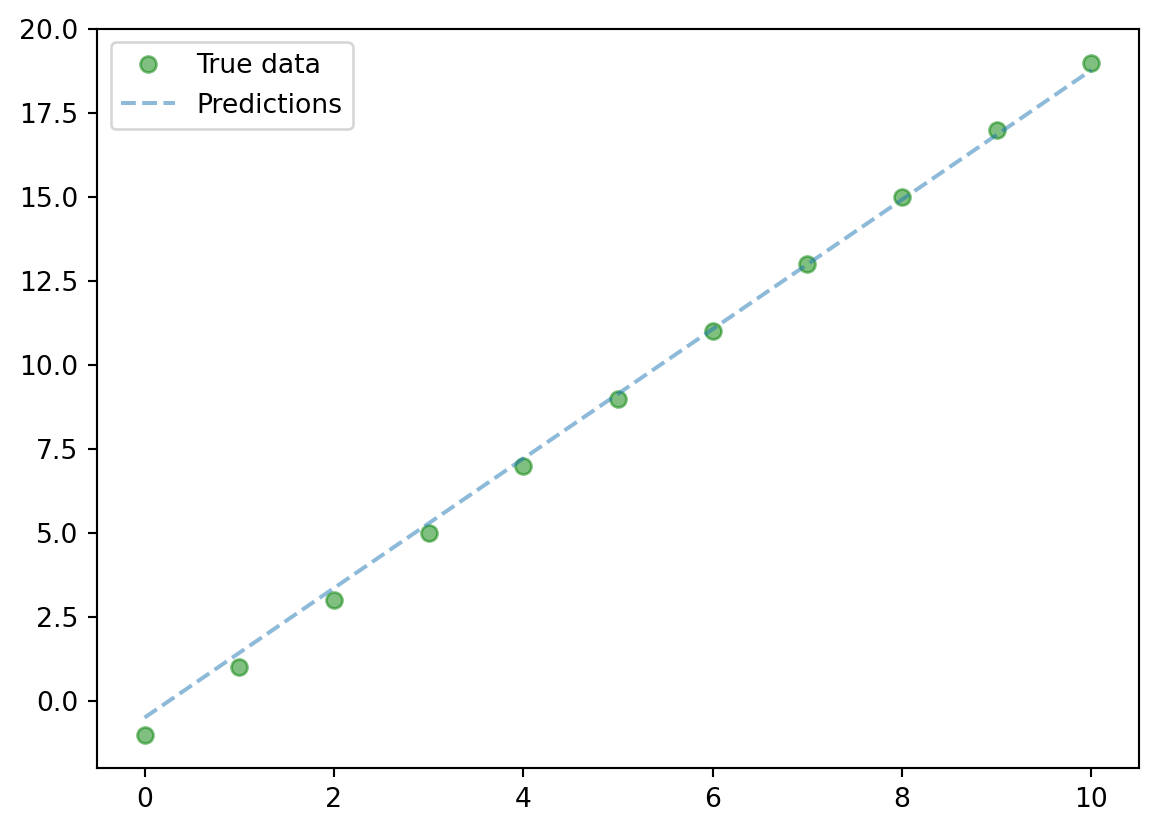
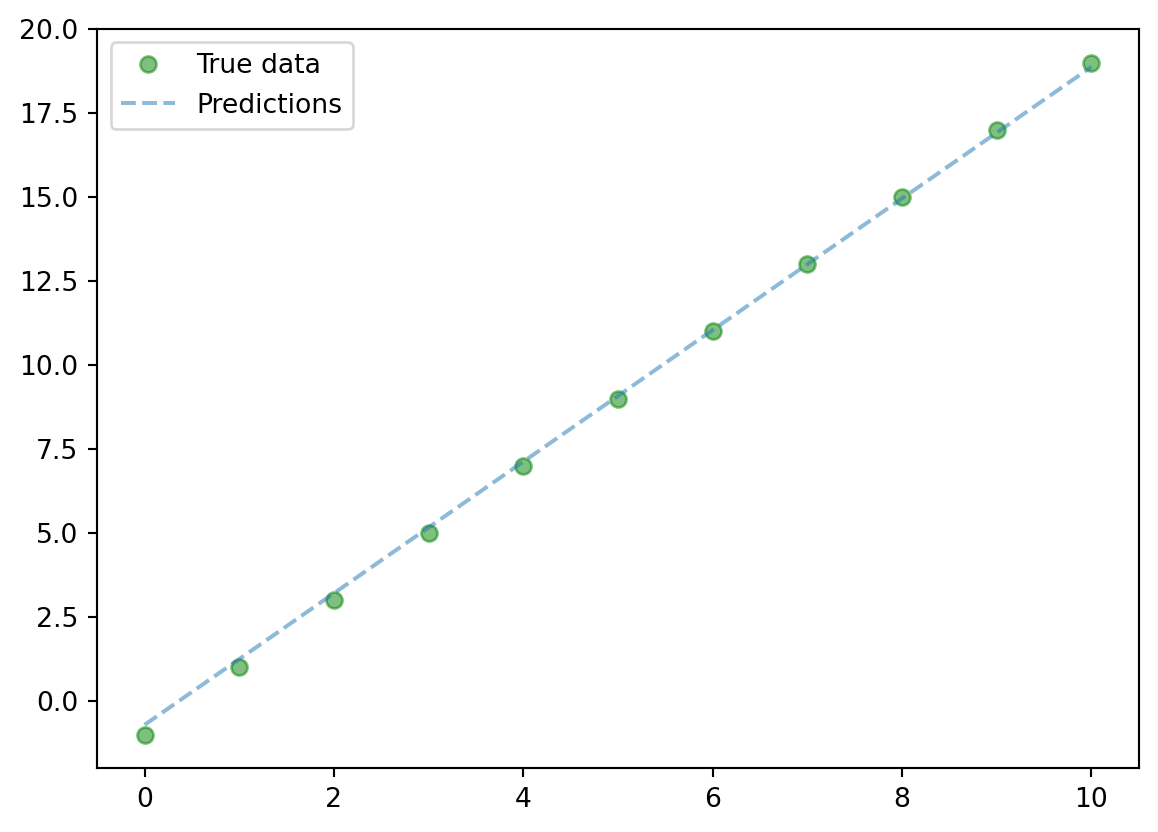
w4

diff --git a/docs/lectures/cw_w2.html b/docs/lectures/cw_w2.html
@@ -255,6 +255,12 @@ window.Quarto = {
  <span class="menu-text">Przestrzenie wektorowe, stany kwantowe, reprezentacja klasycznych i kwantowych bitów</span></a>
   </div>
 </li>
+          <li class="sidebar-item">
+  <div class="sidebar-item-container"> 
+  <a href="../lectures/wyklad4.html" class="sidebar-item-text sidebar-link">
+ <span class="menu-text">Kwantowe bramki logiczne w prostych algorytmach i obwodach kwantowych</span></a>
+  </div>
+</li>
       </ul>
   </li>
         <li class="sidebar-item sidebar-item-section">
@@ -311,7 +317,7 @@ window.Quarto = {
 </section>
 <section id="pytorch-regresja-liniowa" class="level3">
 <h3 class="anchored" data-anchor-id="pytorch-regresja-liniowa">PyTorch Regresja liniowa</h3>
-<div id="88515417" class="cell" data-execution_count="1">
+<div id="4047fcb5" class="cell" data-execution_count="1">
 <div class="sourceCode cell-code" id="cb1"><pre class="sourceCode python code-with-copy"><code class="sourceCode python"><span id="cb1-1"><a href="#cb1-1" aria-hidden="true" tabindex="-1"></a><span class="im">import</span> torch</span>
 <span id="cb1-2"><a href="#cb1-2" aria-hidden="true" tabindex="-1"></a><span class="im">import</span> numpy <span class="im">as</span> np</span>
 <span id="cb1-3"><a href="#cb1-3" aria-hidden="true" tabindex="-1"></a><span class="im">import</span> matplotlib.pyplot <span class="im">as</span> plt</span>
@@ -379,16 +385,16 @@ window.Quarto = {
 <div class="cell-output cell-output-stdout">
 <pre><code>dane: [ 0  1  2  3  4  5  6  7  8  9 10]
 target: [-1, 1, 3, 5, 7, 9, 11, 13, 15, 17, 19]
-epoch: 10, loss = 0.2017
-epoch: 20, loss = 0.1802
-epoch: 30, loss = 0.1611
-epoch: 40, loss = 0.1440
-epoch: 50, loss = 0.1287
-epoch: 60, loss = 0.1150
-epoch: 70, loss = 0.1028
-epoch: 80, loss = 0.0919
-epoch: 90, loss = 0.0821
-epoch: 100, loss = 0.0734</code></pre>
+epoch: 10, loss = 0.0658
+epoch: 20, loss = 0.0588
+epoch: 30, loss = 0.0526
+epoch: 40, loss = 0.0470
+epoch: 50, loss = 0.0420
+epoch: 60, loss = 0.0375
+epoch: 70, loss = 0.0335
+epoch: 80, loss = 0.0300
+epoch: 90, loss = 0.0268
+epoch: 100, loss = 0.0239</code></pre>
 </div>
 <div class="cell-output cell-output-display">
 <div>
@@ -401,7 +407,7 @@ epoch: 100, loss = 0.0734</code></pre>
 </section>
 <section id="pytorch-regresja-logistyczna" class="level3">
 <h3 class="anchored" data-anchor-id="pytorch-regresja-logistyczna">PyTorch Regresja logistyczna</h3>
-<div id="09a1b59b" class="cell" data-execution_count="2">
+<div id="60a1510a" class="cell" data-execution_count="2">
 <div class="sourceCode cell-code" id="cb3"><pre class="sourceCode python code-with-copy"><code class="sourceCode python"><span id="cb3-1"><a href="#cb3-1" aria-hidden="true" tabindex="-1"></a><span class="im">import</span> torch</span>
 <span id="cb3-2"><a href="#cb3-2" aria-hidden="true" tabindex="-1"></a><span class="im">import</span> numpy <span class="im">as</span> np</span>
 <span id="cb3-3"><a href="#cb3-3" aria-hidden="true" tabindex="-1"></a><span class="im">import</span> matplotlib.pyplot <span class="im">as</span> plt</span>
@@ -467,7 +473,7 @@ epoch: 100, loss = 0.0734</code></pre>
 <span id="cb3-63"><a href="#cb3-63" aria-hidden="true" tabindex="-1"></a>    <span class="bu">print</span>(<span class="ss">f'accuracy = </span><span class="sc">{</span>acc<span class="sc">:.4f}</span><span class="ss">'</span>)</span></code><button title="Copy to Clipboard" class="code-copy-button"><i class="bi"></i></button></pre></div>
 <div class="cell-output cell-output-stdout">
 <pre><code>dane: [ 0  1  2  3  4  5  6  7  8  9 10]
-target: [0, 0, 0, 0, 1, 0, 1, 0, 1, 0, 1]
+target: [0, 1, 0, 0, 1, 1, 0, 1, 0, 1, 0]
 epoch: 10, loss = -0.0000
 epoch: 20, loss = -0.0000
 epoch: 30, loss = -0.0000

diff --git a/docs/lectures/wyklad4.html b/docs/lectures/wyklad4.html
@@ -136,7 +136,7 @@ window.Quarto = {
       <button type="button" class="quarto-btn-toggle btn" data-bs-toggle="collapse" role="button" data-bs-target=".quarto-sidebar-collapse-item" aria-controls="quarto-sidebar" aria-expanded="false" aria-label="Toggle sidebar navigation" onclick="if (window.quartoToggleHeadroom) { window.quartoToggleHeadroom(); }">
         <i class="bi bi-layout-text-sidebar-reverse"></i>
       </button>
-        <nav class="quarto-page-breadcrumbs" aria-label="breadcrumb"><ol class="breadcrumb"><li class="breadcrumb-item">Kwantowe bramki logiczne w prostych algorytmach i obwodach kwantowych</li></ol></nav>
+        <nav class="quarto-page-breadcrumbs" aria-label="breadcrumb"><ol class="breadcrumb"><li class="breadcrumb-item"><a href="../lectures/wyklad1.html">Wykłady</a></li><li class="breadcrumb-item"><a href="../lectures/wyklad4.html">Kwantowe bramki logiczne w prostych algorytmach i obwodach kwantowych</a></li></ol></nav>
         <a class="flex-grow-1" role="navigation" data-bs-toggle="collapse" data-bs-target=".quarto-sidebar-collapse-item" aria-controls="quarto-sidebar" aria-expanded="false" aria-label="Toggle sidebar navigation" onclick="if (window.quartoToggleHeadroom) { window.quartoToggleHeadroom(); }">      
         </a>
     </div>
@@ -221,6 +221,12 @@ window.Quarto = {
  <span class="menu-text">Przestrzenie wektorowe, stany kwantowe, reprezentacja klasycznych i kwantowych bitów</span></a>
   </div>
 </li>
+          <li class="sidebar-item">
+  <div class="sidebar-item-container"> 
+  <a href="../lectures/wyklad4.html" class="sidebar-item-text sidebar-link active">
+ <span class="menu-text">Kwantowe bramki logiczne w prostych algorytmach i obwodach kwantowych</span></a>
+  </div>
+</li>
       </ul>
   </li>
         <li class="sidebar-item sidebar-item-section">
@@ -255,7 +261,7 @@ window.Quarto = {
 <!-- main -->
 <main class="content" id="quarto-document-content">
 
-<header id="title-block-header" class="quarto-title-block default">
+<header id="title-block-header" class="quarto-title-block default"><nav class="quarto-page-breadcrumbs quarto-title-breadcrumbs d-none d-lg-block" aria-label="breadcrumb"><ol class="breadcrumb"><li class="breadcrumb-item"><a href="../lectures/wyklad1.html">Wykłady</a></li><li class="breadcrumb-item"><a href="../lectures/wyklad4.html">Kwantowe bramki logiczne w prostych algorytmach i obwodach kwantowych</a></li></ol></nav>
 <div class="quarto-title">
 <h1 class="title">Kwantowe bramki logiczne w prostych algorytmach i obwodach kwantowych</h1>
 </div>

diff --git a/docs/lectures/cw_w3.html b/docs/lectures/cw_w3.html
@@ -226,6 +226,12 @@ pre > code.sourceCode > span > a:first-child::before { text-decoration: underlin
  <span class="menu-text">Przestrzenie wektorowe, stany kwantowe, reprezentacja klasycznych i kwantowych bitów</span></a>
   </div>
 </li>
+          <li class="sidebar-item">
+  <div class="sidebar-item-container"> 
+  <a href="../lectures/wyklad4.html" class="sidebar-item-text sidebar-link">
+ <span class="menu-text">Kwantowe bramki logiczne w prostych algorytmach i obwodach kwantowych</span></a>
+  </div>
+</li>
       </ul>
   </li>
         <li class="sidebar-item sidebar-item-section">
@@ -247,7 +253,7 @@ pre > code.sourceCode > span > a:first-child::before { text-decoration: underlin
 
 
 <p>Solution l.1.1</p>
-<div id="0a745f0a" class="cell" data-execution_count="1">
+<div id="0fba2948" class="cell" data-execution_count="1">
 <div class="sourceCode cell-code" id="cb1"><pre class="sourceCode python code-with-copy"><code class="sourceCode python"><span id="cb1-1"><a href="#cb1-1" aria-hidden="true" tabindex="-1"></a><span class="im">import</span> numpy <span class="im">as</span> np</span>
 <span id="cb1-2"><a href="#cb1-2" aria-hidden="true" tabindex="-1"></a></span>
 <span id="cb1-3"><a href="#cb1-3" aria-hidden="true" tabindex="-1"></a>ket_0 <span class="op">=</span> np.array([<span class="dv">1</span>, <span class="dv">0</span>])</span>
@@ -284,7 +290,7 @@ pre > code.sourceCode > span > a:first-child::before { text-decoration: underlin
 </div>
 </div>
 <p>Solution l.1.2</p>
-<div id="c56e48f5" class="cell" data-execution_count="2">
+<div id="445c61bf" class="cell" data-execution_count="2">
 <div class="sourceCode cell-code" id="cb3"><pre class="sourceCode python code-with-copy"><code class="sourceCode python"><span id="cb3-1"><a href="#cb3-1" aria-hidden="true" tabindex="-1"></a><span class="im">import</span> numpy <span class="im">as</span> np</span>
 <span id="cb3-2"><a href="#cb3-2" aria-hidden="true" tabindex="-1"></a></span>
 <span id="cb3-3"><a href="#cb3-3" aria-hidden="true" tabindex="-1"></a><span class="kw">def</span> inner_product(state_1, state_2):</span>

diff --git a/docs/index.html b/docs/index.html
@@ -192,6 +192,12 @@ ul.task-list li input[type="checkbox"] {
  <span class="menu-text">Przestrzenie wektorowe, stany kwantowe, reprezentacja klasycznych i kwantowych bitów</span></a>
   </div>
 </li>
+          <li class="sidebar-item">
+  <div class="sidebar-item-container"> 
+  <a href="./lectures/wyklad4.html" class="sidebar-item-text sidebar-link">
+ <span class="menu-text">Kwantowe bramki logiczne w prostych algorytmach i obwodach kwantowych</span></a>
+  </div>
+</li>
       </ul>
   </li>
         <li class="sidebar-item sidebar-item-section">
@@ -259,7 +265,9 @@ ul.task-list li input[type="checkbox"] {
 <li><del>
 07-10-2024 (poniedziałek) 11:40-13:20 - Wykład 2
 </del></li>
-<li>14-10-2024 (poniedziałek) 11:40-13:20 - Wykład 3</li>
+<li><del>
+14-10-2024 (poniedziałek) 11:40-13:20 - Wykład 3
+</del></li>
 <li>21-10-2023 (poniedziałek) 11:40-13:20 - Wykład 4</li>
 <li>28-10-2023 (poniedziałek) 11:40-13:20 - Wykład 5</li>
 </ol>
@@ -284,7 +292,9 @@ ul.task-list li input[type="checkbox"] {
 <section id="sobota-niedziela" class="level2">
 <h2 class="anchored" data-anchor-id="sobota-niedziela">Sobota-Niedziela</h2>
 <ol type="1">
-<li>12.10.2024 11:40-13:20 - Wykład 1</li>
+<li><del>
+12.10.2024 11:40-13:20 - Wykład 1
+</del></li>
 <li>26.10.2024 11:40-13:20 - Wykład 2</li>
 </ol>
 </section>

diff --git a/docs/labs/PennyLane_version/PQC_optim.html b/docs/labs/PennyLane_version/PQC_optim.html
@@ -226,6 +226,12 @@ pre > code.sourceCode > span > a:first-child::before { text-decoration: underlin
  <span class="menu-text">Przestrzenie wektorowe, stany kwantowe, reprezentacja klasycznych i kwantowych bitów</span></a>
   </div>
 </li>
+          <li class="sidebar-item">
+  <div class="sidebar-item-container"> 
+  <a href="../../lectures/wyklad4.html" class="sidebar-item-text sidebar-link">
+ <span class="menu-text">Kwantowe bramki logiczne w prostych algorytmach i obwodach kwantowych</span></a>
+  </div>
+</li>
       </ul>
   </li>
         <li class="sidebar-item sidebar-item-section">

diff --git a/docs/check/grover.html b/docs/check/grover.html
@@ -226,6 +226,12 @@ pre > code.sourceCode > span > a:first-child::before { text-decoration: underlin
  <span class="menu-text">Przestrzenie wektorowe, stany kwantowe, reprezentacja klasycznych i kwantowych bitów</span></a>
   </div>
 </li>
+          <li class="sidebar-item">
+  <div class="sidebar-item-container"> 
+  <a href="../lectures/wyklad4.html" class="sidebar-item-text sidebar-link">
+ <span class="menu-text">Kwantowe bramki logiczne w prostych algorytmach i obwodach kwantowych</span></a>
+  </div>
+</li>
       </ul>
   </li>
         <li class="sidebar-item sidebar-item-section">

diff --git a/docs/labs/pytorch_classical_models.html b/docs/labs/pytorch_classical_models.html
@@ -226,6 +226,12 @@ pre > code.sourceCode > span > a:first-child::before { text-decoration: underlin
  <span class="menu-text">Przestrzenie wektorowe, stany kwantowe, reprezentacja klasycznych i kwantowych bitów</span></a>
   </div>
 </li>
+          <li class="sidebar-item">
+  <div class="sidebar-item-container"> 
+  <a href="../lectures/wyklad4.html" class="sidebar-item-text sidebar-link">
+ <span class="menu-text">Kwantowe bramki logiczne w prostych algorytmach i obwodach kwantowych</span></a>
+  </div>
+</li>
       </ul>
   </li>
         <li class="sidebar-item sidebar-item-section">

diff --git a/docs/labs/qaoa_penny.html b/docs/labs/qaoa_penny.html
@@ -226,6 +226,12 @@ pre > code.sourceCode > span > a:first-child::before { text-decoration: underlin
  <span class="menu-text">Przestrzenie wektorowe, stany kwantowe, reprezentacja klasycznych i kwantowych bitów</span></a>
   </div>
 </li>
+          <li class="sidebar-item">
+  <div class="sidebar-item-container"> 
+  <a href="../lectures/wyklad4.html" class="sidebar-item-text sidebar-link">
+ <span class="menu-text">Kwantowe bramki logiczne w prostych algorytmach i obwodach kwantowych</span></a>
+  </div>
+</li>
       </ul>
   </li>
         <li class="sidebar-item sidebar-item-section">

diff --git a/docs/lectures/cw_w1.html b/docs/lectures/cw_w1.html
@@ -226,6 +226,12 @@ pre > code.sourceCode > span > a:first-child::before { text-decoration: underlin
  <span class="menu-text">Przestrzenie wektorowe, stany kwantowe, reprezentacja klasycznych i kwantowych bitów</span></a>
   </div>
 </li>
+          <li class="sidebar-item">
+  <div class="sidebar-item-container"> 
+  <a href="../lectures/wyklad4.html" class="sidebar-item-text sidebar-link">
+ <span class="menu-text">Kwantowe bramki logiczne w prostych algorytmach i obwodach kwantowych</span></a>
+  </div>
+</li>
       </ul>
   </li>
         <li class="sidebar-item sidebar-item-section">

diff --git a/docs/other/qiskitML.html b/docs/other/qiskitML.html
@@ -229,6 +229,12 @@ pre > code.sourceCode > span > a:first-child::before { text-decoration: underlin
  <span class="menu-text">Przestrzenie wektorowe, stany kwantowe, reprezentacja klasycznych i kwantowych bitów</span></a>
   </div>
 </li>
+          <li class="sidebar-item">
+  <div class="sidebar-item-container"> 
+  <a href="../lectures/wyklad4.html" class="sidebar-item-text sidebar-link">
+ <span class="menu-text">Kwantowe bramki logiczne w prostych algorytmach i obwodach kwantowych</span></a>
+  </div>
+</li>
       </ul>
   </li>
         <li class="sidebar-item sidebar-item-section">

diff --git a/docs/info.html b/docs/info.html
@@ -226,6 +226,12 @@ pre > code.sourceCode > span > a:first-child::before { text-decoration: underlin
  <span class="menu-text">Przestrzenie wektorowe, stany kwantowe, reprezentacja klasycznych i kwantowych bitów</span></a>
   </div>
 </li>
+          <li class="sidebar-item">
+  <div class="sidebar-item-container"> 
+  <a href="./lectures/wyklad4.html" class="sidebar-item-text sidebar-link">
+ <span class="menu-text">Kwantowe bramki logiczne w prostych algorytmach i obwodach kwantowych</span></a>
+  </div>
+</li>
       </ul>
   </li>
         <li class="sidebar-item sidebar-item-section">

diff --git a/docs/lectures/wyklad5.html b/docs/lectures/wyklad5.html
@@ -192,6 +192,12 @@ ul.task-list li input[type="checkbox"] {
  <span class="menu-text">Przestrzenie wektorowe, stany kwantowe, reprezentacja klasycznych i kwantowych bitów</span></a>
   </div>
 </li>
+          <li class="sidebar-item">
+  <div class="sidebar-item-container"> 
+  <a href="../lectures/wyklad4.html" class="sidebar-item-text sidebar-link">
+ <span class="menu-text">Kwantowe bramki logiczne w prostych algorytmach i obwodach kwantowych</span></a>
+  </div>
+</li>
       </ul>
   </li>
         <li class="sidebar-item sidebar-item-section">
